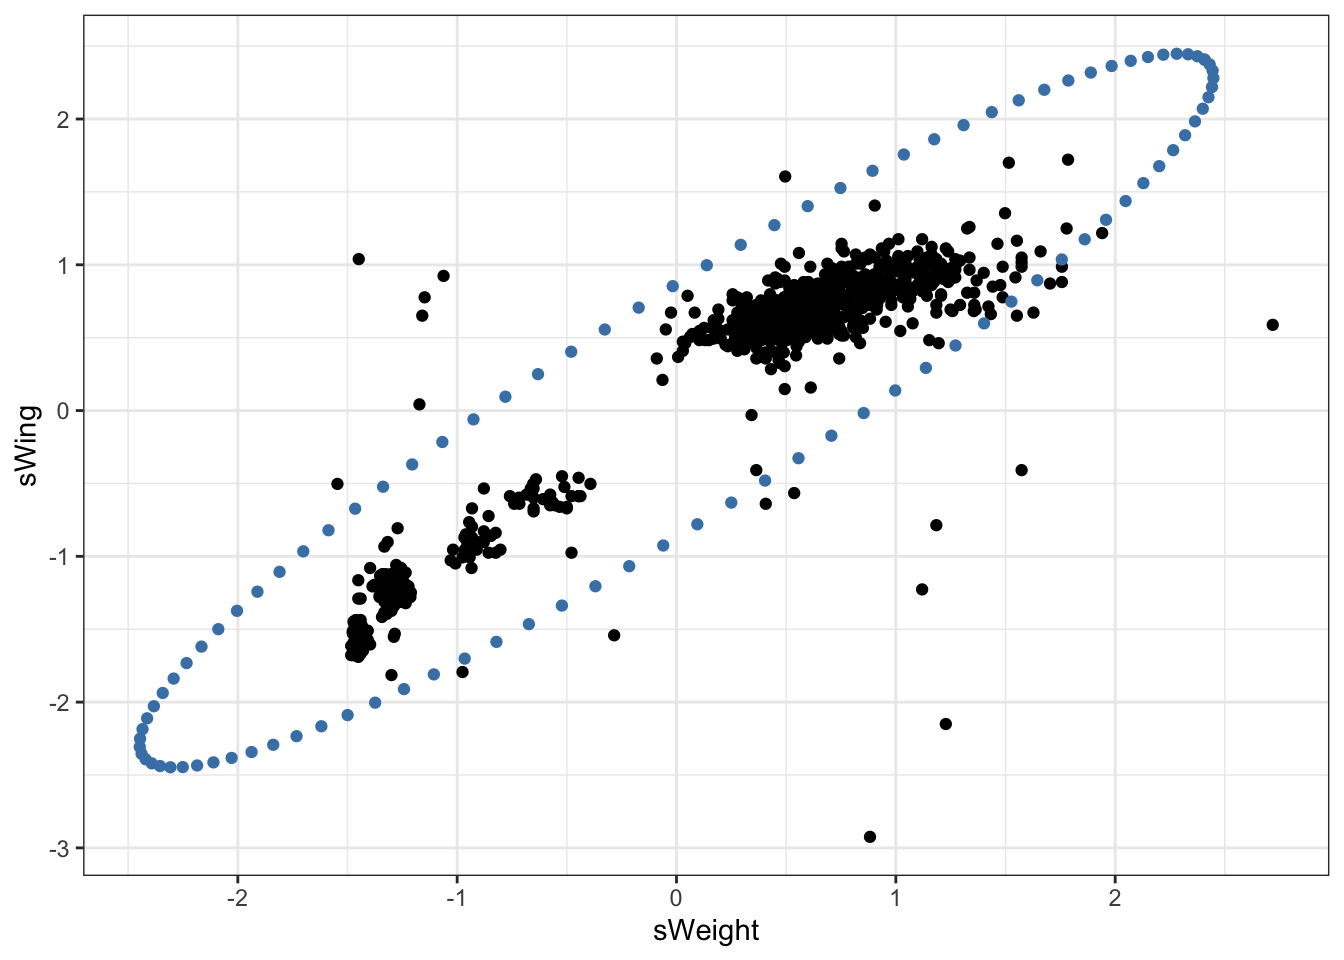
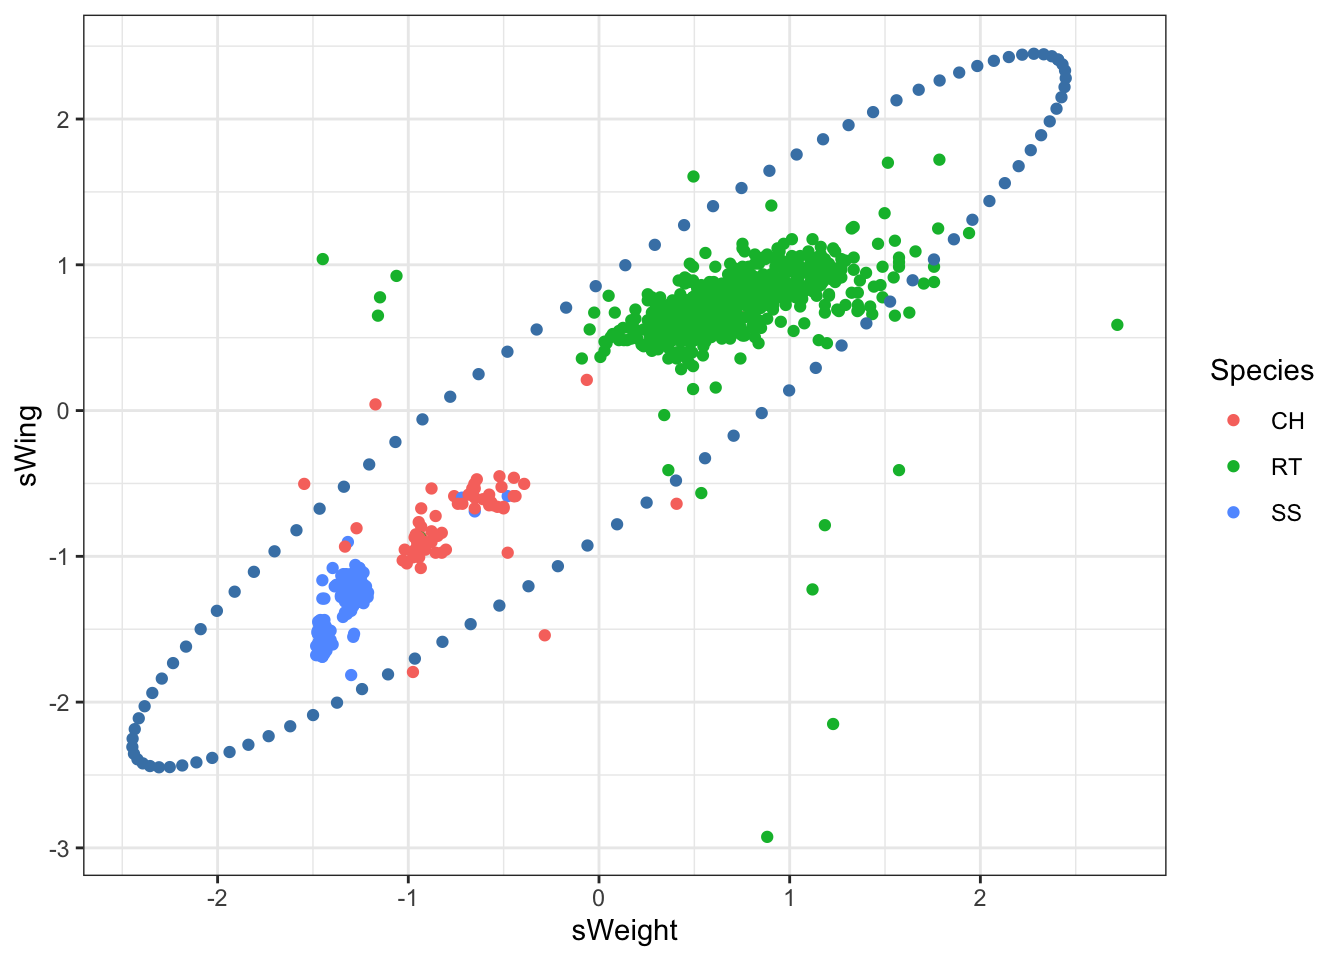
fix ae26 libraries

diff --git a/public/static/appex/ae26.html b/public/static/appex/ae26.html
@@ -304,7 +304,7 @@ x^2 s_x^2 + 2x y \cdot s_{xy}^2 + y^2 s_y^2 = c^2
 <span id="cb14-2"><a href="#cb14-2" aria-hidden="true" tabindex="-1"></a>ellipsePoints <span class="ot">=</span> <span class="fu">data.frame</span>(<span class="fu">ellipse</span>(covMatrix2))</span>
 <span id="cb14-3"><a href="#cb14-3" aria-hidden="true" tabindex="-1"></a></span>
 <span id="cb14-4"><a href="#cb14-4" aria-hidden="true" tabindex="-1"></a>Hawks2 <span class="sc">%&gt;%</span></span>
-<span id="cb14-5"><a href="#cb14-5" aria-hidden="true" tabindex="-1"></a>  <span class="fu">ggplot</span>(<span class="fu">aes</span>(<span class="at">x =</span> sWeight, <span class="at">y =</span> sWing)) <span class="sc">+</span></span>
+<span id="cb14-5"><a href="#cb14-5" aria-hidden="true" tabindex="-1"></a>  <span class="fu">ggplot</span>(<span class="fu">aes</span>(<span class="at">x =</span> sWeight, <span class="at">y =</span> sWing, <span class="at">color =</span> Species)) <span class="sc">+</span></span>
 <span id="cb14-6"><a href="#cb14-6" aria-hidden="true" tabindex="-1"></a>  <span class="fu">geom_point</span>() <span class="sc">+</span></span>
 <span id="cb14-7"><a href="#cb14-7" aria-hidden="true" tabindex="-1"></a>  <span class="fu">theme_bw</span>() <span class="sc">+</span></span>
 <span id="cb14-8"><a href="#cb14-8" aria-hidden="true" tabindex="-1"></a>  <span class="fu">geom_point</span>(<span class="fu">aes</span>(<span class="at">x =</span> sWeight, <span class="at">y =</span> sWing), <span class="at">data =</span> ellipsePoints, <span class="at">color =</span> <span class="st">'steelblue'</span>)</span></code><button title="Copy to Clipboard" class="code-copy-button"><i class="bi"></i></button></pre></div>
@@ -349,6 +349,9 @@ sWing   -7.408548  7.925401</code></pre>
 <ul>
 <li>Example of “principle component analysis” in action: <a href="https://www.nature.com/articles/nature07331">genes mirror geography within Europe</a> and <a href="https://www.nationalgeographic.com/science/article/european-genes-mirror-european-geography">an associated news article</a> discussing the work.</li>
 </ul>
+<div class="cell">
+
+</div>
 </section>
 </section>
 </section>

diff --git a/static/static/appex/ae26.html b/static/static/appex/ae26.html
@@ -304,7 +304,7 @@ x^2 s_x^2 + 2x y \cdot s_{xy}^2 + y^2 s_y^2 = c^2
 <span id="cb14-2"><a href="#cb14-2" aria-hidden="true" tabindex="-1"></a>ellipsePoints <span class="ot">=</span> <span class="fu">data.frame</span>(<span class="fu">ellipse</span>(covMatrix2))</span>
 <span id="cb14-3"><a href="#cb14-3" aria-hidden="true" tabindex="-1"></a></span>
 <span id="cb14-4"><a href="#cb14-4" aria-hidden="true" tabindex="-1"></a>Hawks2 <span class="sc">%&gt;%</span></span>
-<span id="cb14-5"><a href="#cb14-5" aria-hidden="true" tabindex="-1"></a>  <span class="fu">ggplot</span>(<span class="fu">aes</span>(<span class="at">x =</span> sWeight, <span class="at">y =</span> sWing)) <span class="sc">+</span></span>
+<span id="cb14-5"><a href="#cb14-5" aria-hidden="true" tabindex="-1"></a>  <span class="fu">ggplot</span>(<span class="fu">aes</span>(<span class="at">x =</span> sWeight, <span class="at">y =</span> sWing, <span class="at">color =</span> Species)) <span class="sc">+</span></span>
 <span id="cb14-6"><a href="#cb14-6" aria-hidden="true" tabindex="-1"></a>  <span class="fu">geom_point</span>() <span class="sc">+</span></span>
 <span id="cb14-7"><a href="#cb14-7" aria-hidden="true" tabindex="-1"></a>  <span class="fu">theme_bw</span>() <span class="sc">+</span></span>
 <span id="cb14-8"><a href="#cb14-8" aria-hidden="true" tabindex="-1"></a>  <span class="fu">geom_point</span>(<span class="fu">aes</span>(<span class="at">x =</span> sWeight, <span class="at">y =</span> sWing), <span class="at">data =</span> ellipsePoints, <span class="at">color =</span> <span class="st">'steelblue'</span>)</span></code><button title="Copy to Clipboard" class="code-copy-button"><i class="bi"></i></button></pre></div>
@@ -349,6 +349,9 @@ sWing   -7.408548  7.925401</code></pre>
 <ul>
 <li>Example of “principle component analysis” in action: <a href="https://www.nature.com/articles/nature07331">genes mirror geography within Europe</a> and <a href="https://www.nationalgeographic.com/science/article/european-genes-mirror-european-geography">an associated news article</a> discussing the work.</li>
 </ul>
+<div class="cell">
+
+</div>
 </section>
 </section>
 </section>
